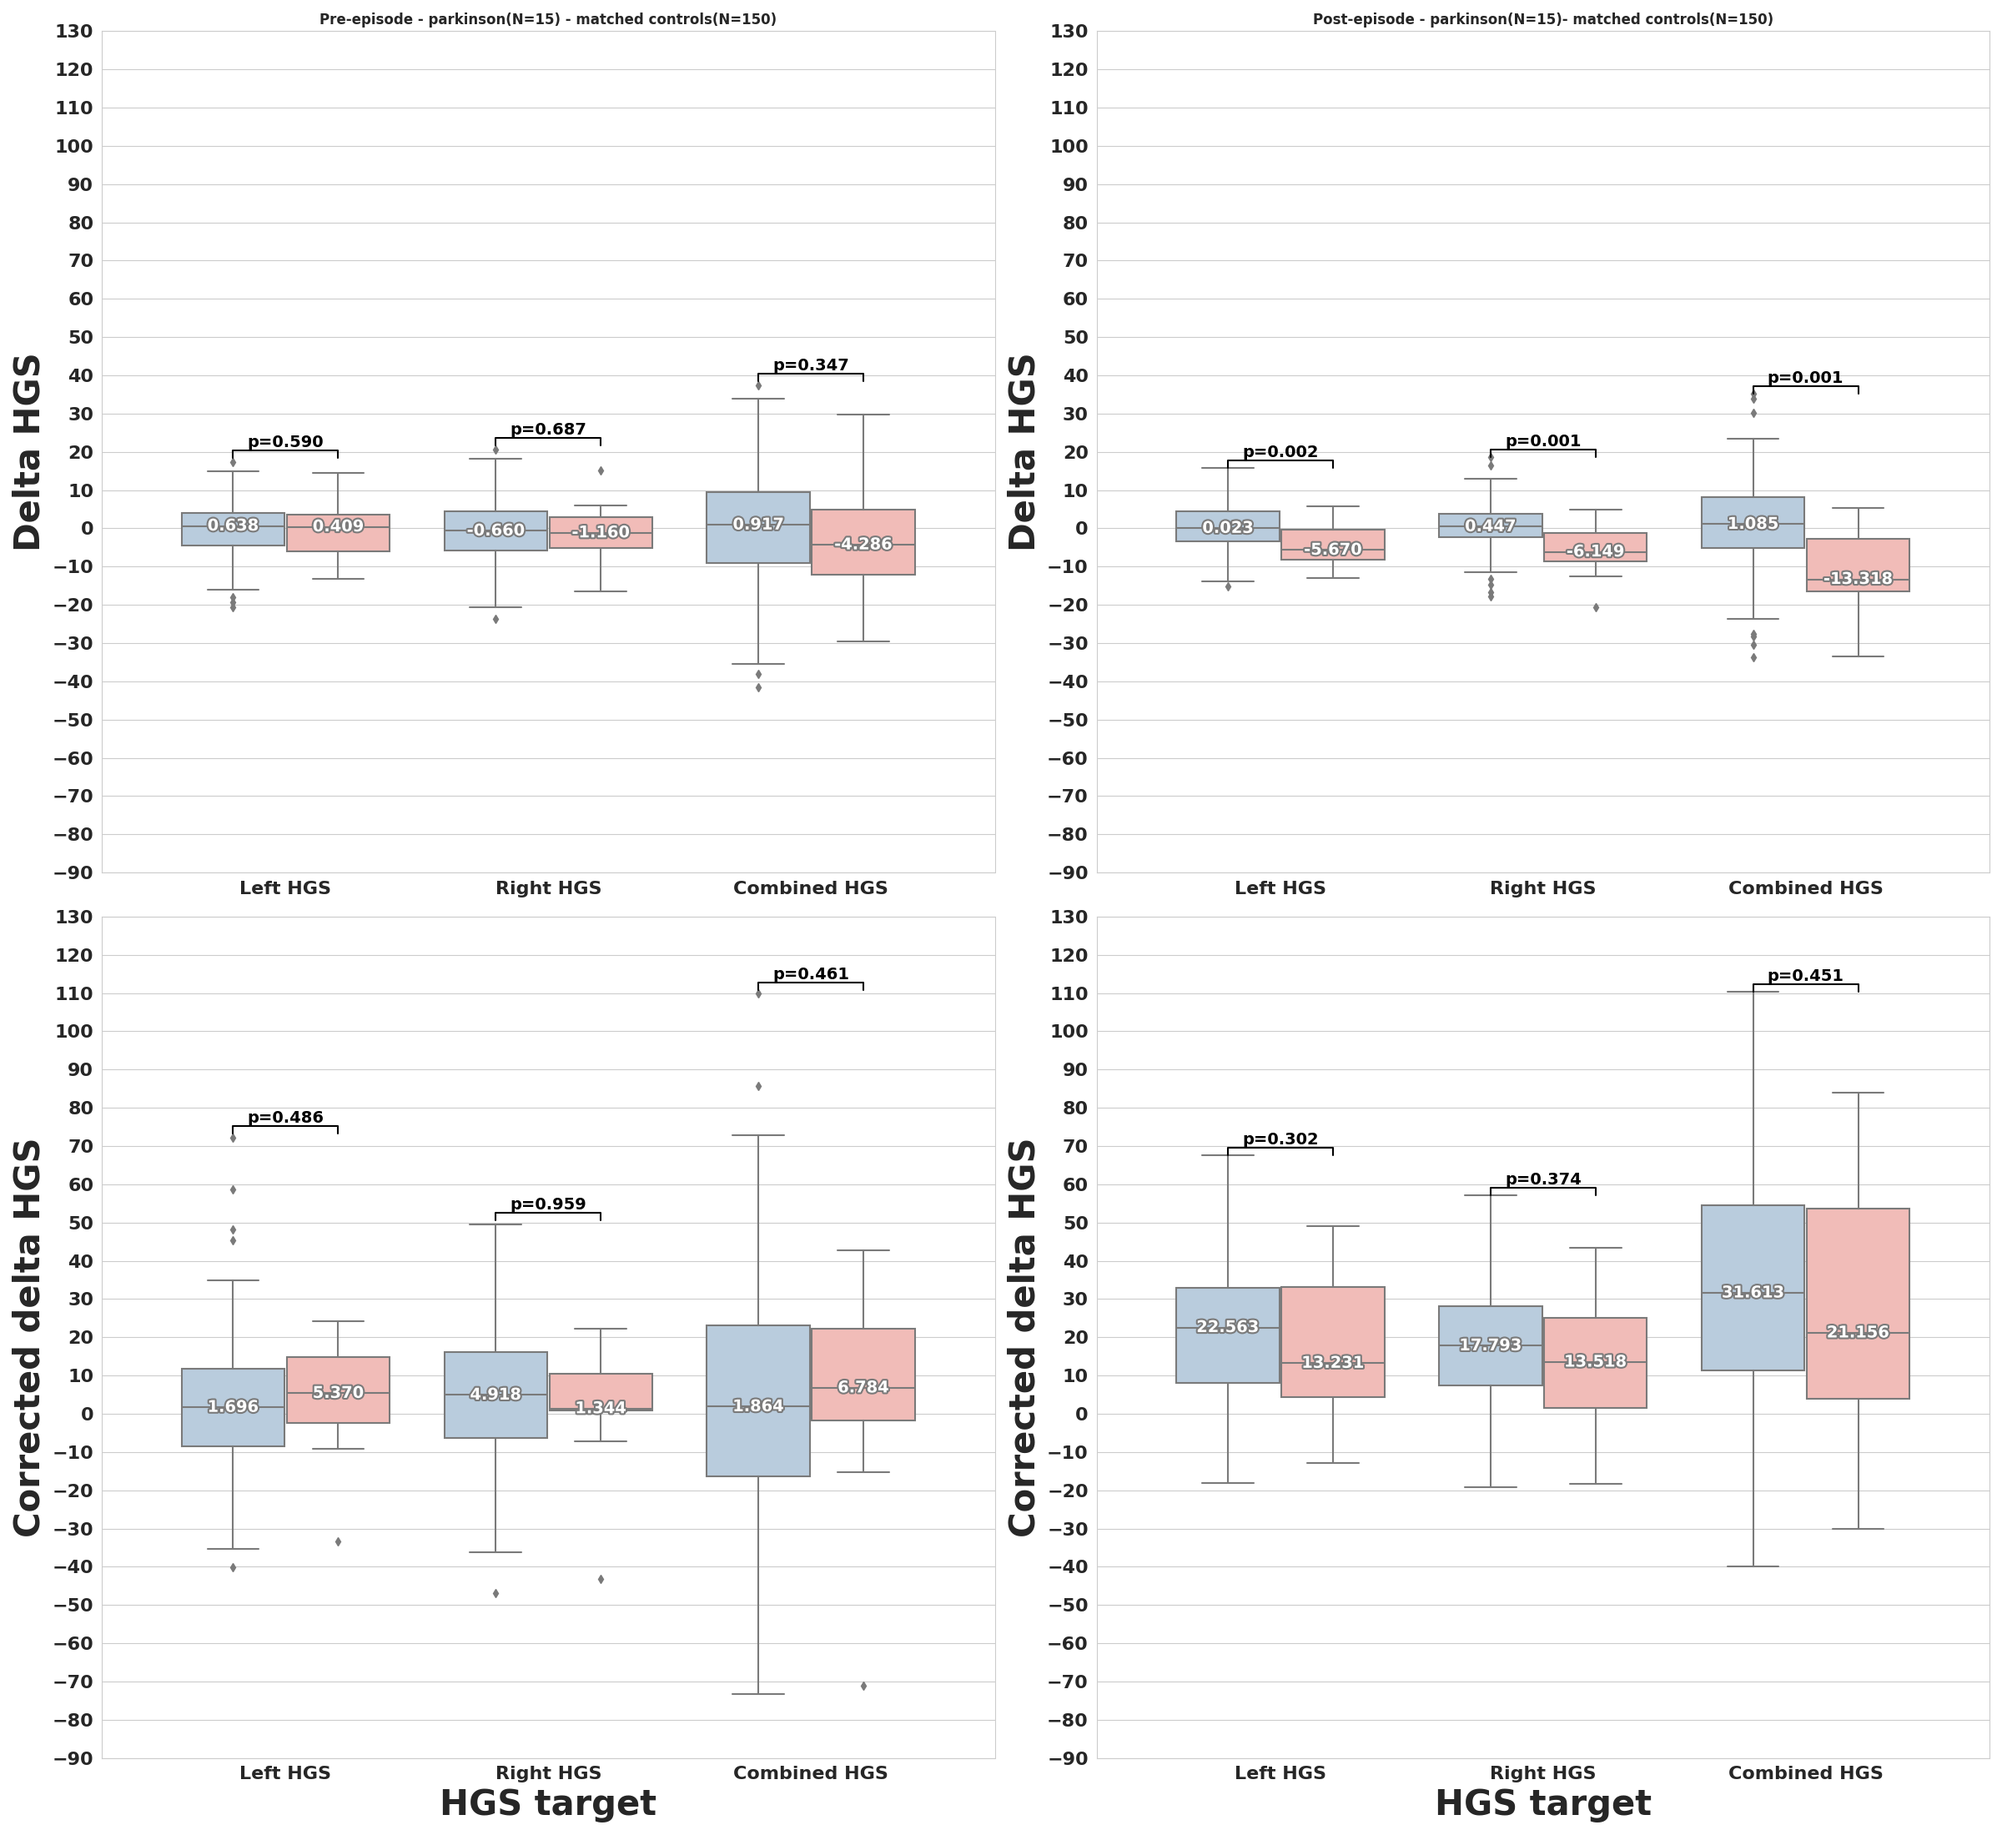
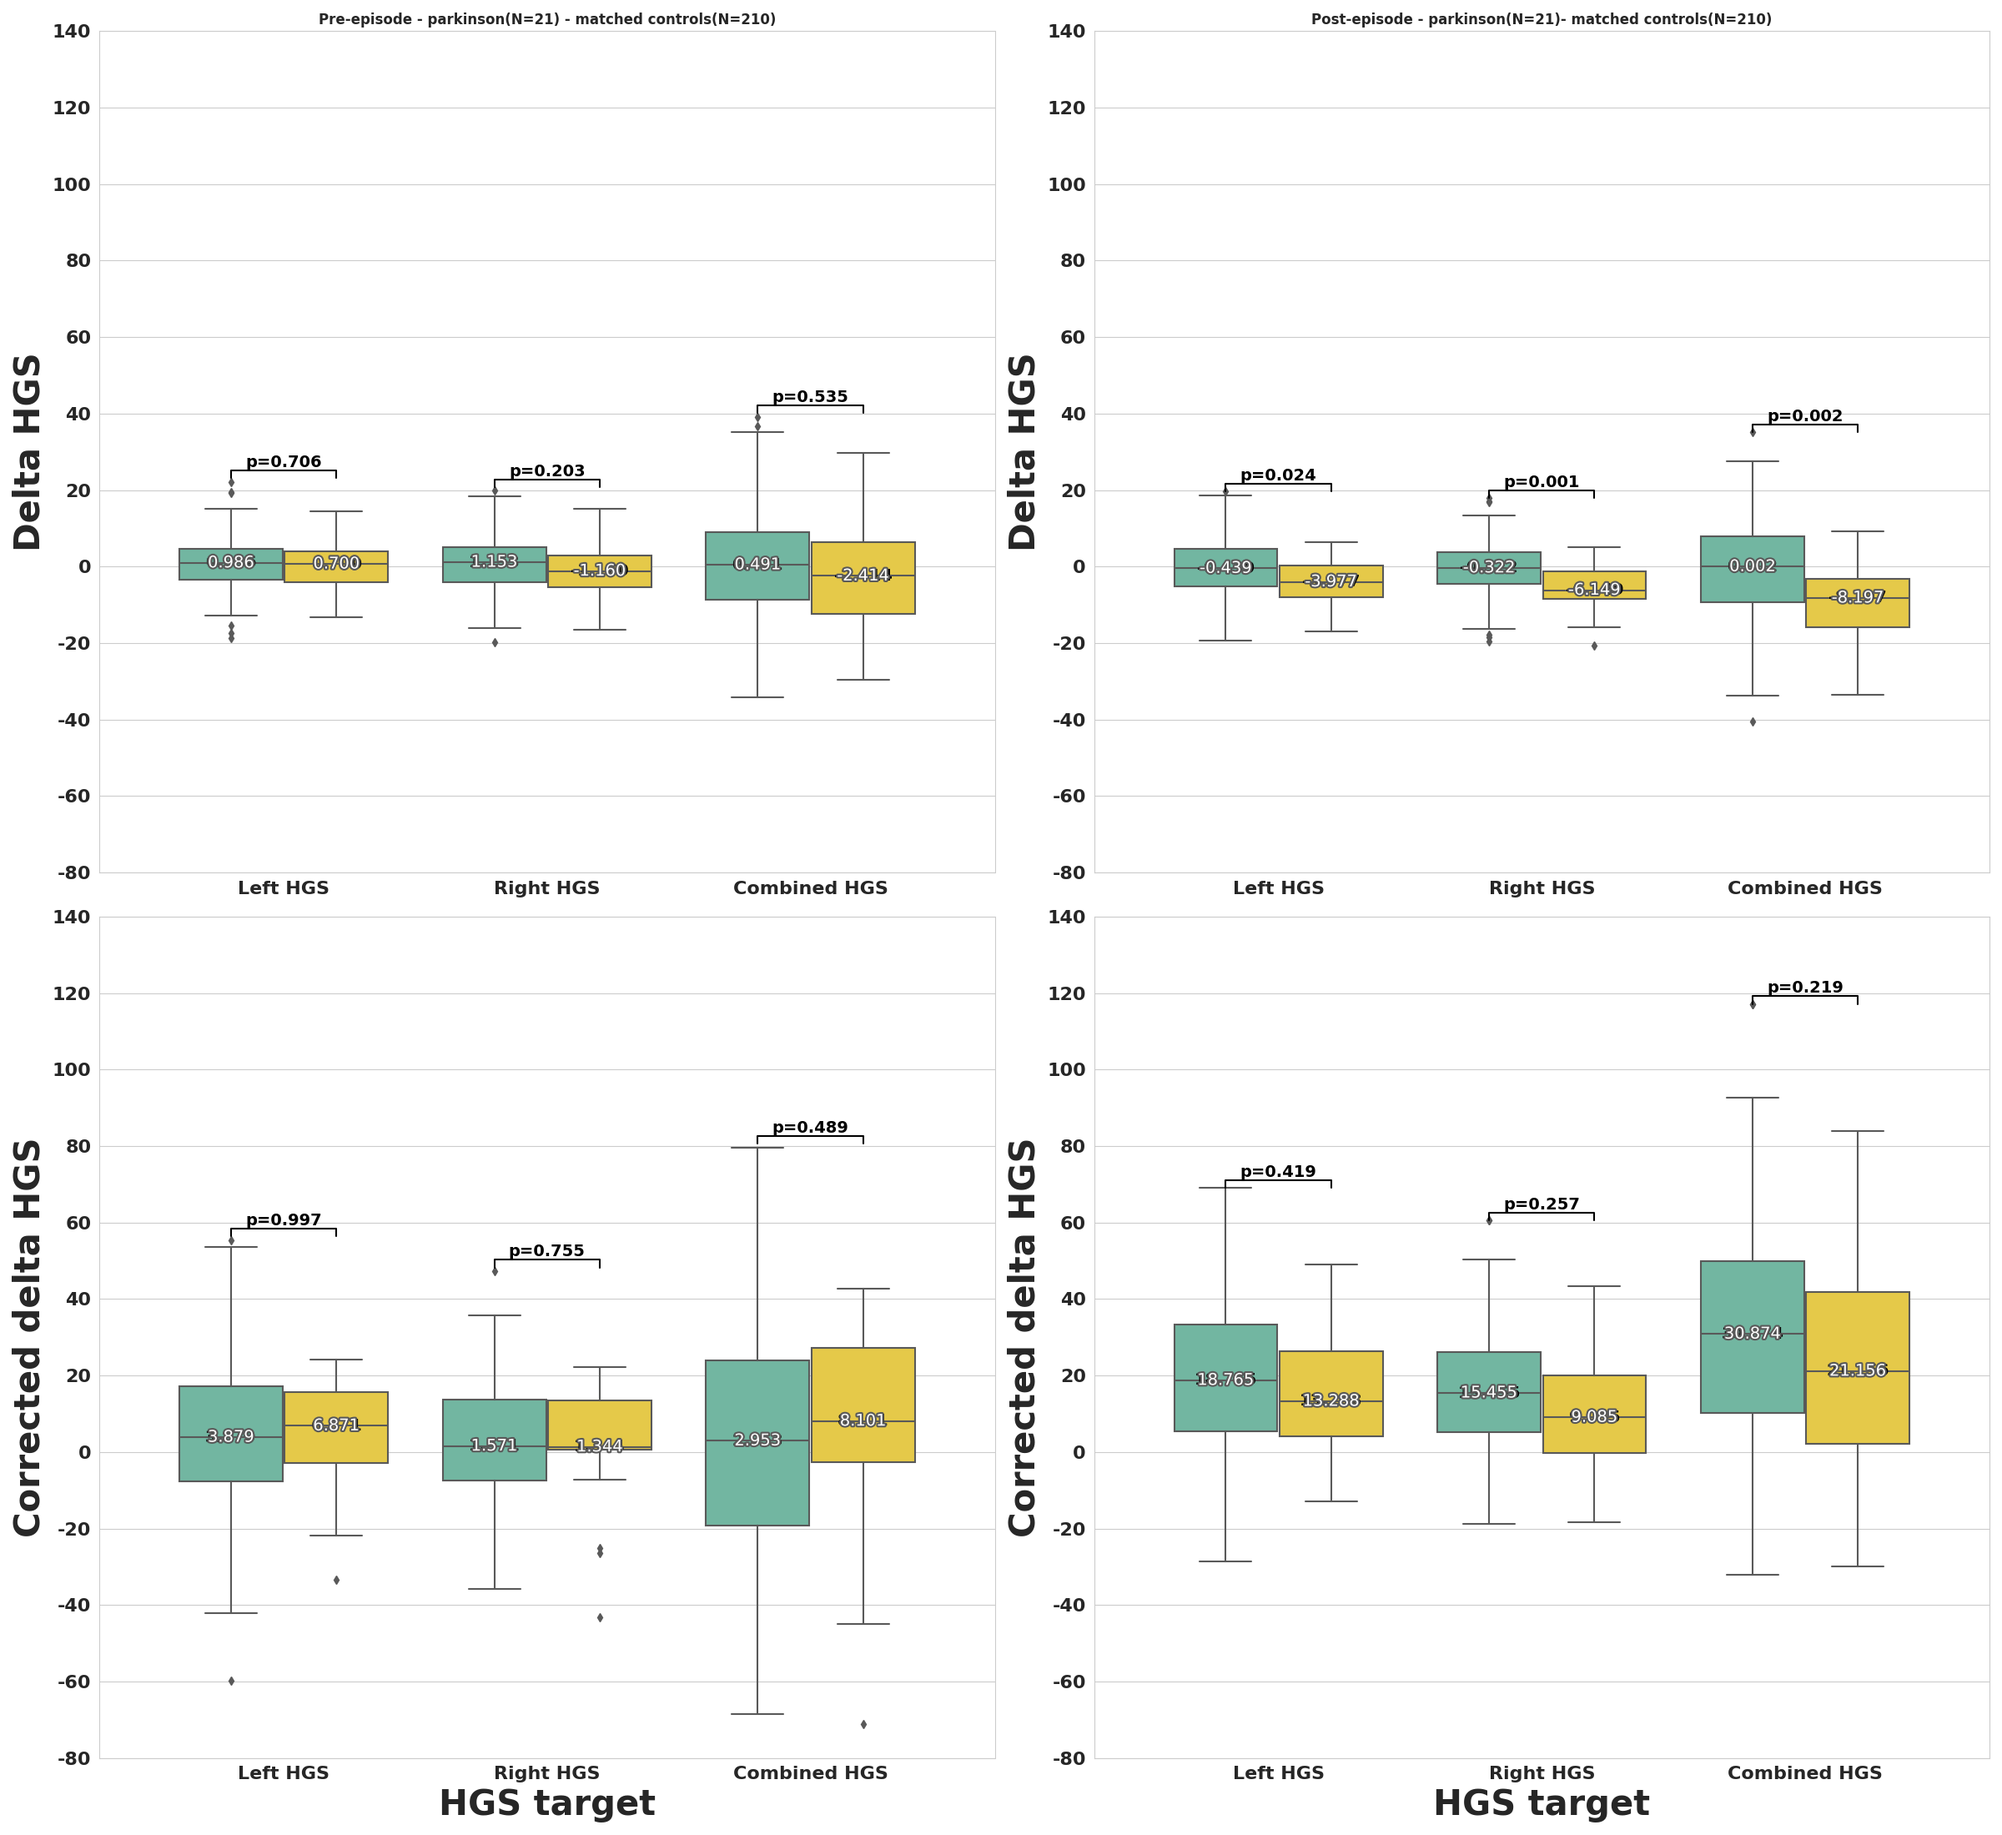
New files for plot corrected predictions for disorders

diff --git a/exec/8_test_trained_models_on_diseases/disorder/plot_comparing_hgs_prediction_targets.py b/exec/8_test_trained_models_on_diseases/disorder/plot_comparing_hgs_prediction_targets.py
@@ -38,6 +38,9 @@ if anova_target == "hgs_delta":
 elif anova_target == "hgs_predicted":
     plot_target = ["hgs_predicted", "hgs_corrected_predicted"]
 
+elif anova_target == "hgs":
+    plot_target = ["hgs"]
+
 ##############################################################################
 
 df = pd.DataFrame()
@@ -71,22 +74,21 @@ df_post_control= df_post[df_post['treatment']=="control"]
 df_ranksum = pd.DataFrame(index=["hgs_left", "hgs_right", "hgs_L+R"])
 df_yaxis_max = pd.DataFrame(index=["hgs_left", "hgs_right", "hgs_L+R"])
 
-if anova_target == "hgs_delta":
-    for target in ["hgs_left", "hgs_right", "hgs_L+R"]:
-        for i, y_hgs in enumerate(plot_target):
-            stat_pre, p_value_pre = ranksums(df_pre_control[df_pre_control["hgs_target"]==target][y_hgs], df_pre_disorder[df_pre_disorder["hgs_target"]==target][y_hgs])
-            stat_post, p_value_post = ranksums(df_post_control[df_post_control["hgs_target"]==target][y_hgs], df_post_disorder[df_post_disorder["hgs_target"]==target][y_hgs])
+for target in ["hgs_left", "hgs_right", "hgs_L+R"]:
+    for i, y_hgs in enumerate(plot_target):
+        stat_pre, p_value_pre = ranksums(df_pre_control[df_pre_control["hgs_target"]==target][y_hgs], df_pre_disorder[df_pre_disorder["hgs_target"]==target][y_hgs])
+        stat_post, p_value_post = ranksums(df_post_control[df_post_control["hgs_target"]==target][y_hgs], df_post_disorder[df_post_disorder["hgs_target"]==target][y_hgs])
 
-            df_ranksum.loc[target, f"pre_{y_hgs}_p_value"] = p_value_pre
-            df_ranksum.loc[target, f"pre_{y_hgs}_stat_value"] = stat_pre
-            df_ranksum.loc[target, f"post_{y_hgs}_p_value"] = p_value_post
-            df_ranksum.loc[target, f"post_{y_hgs}_stat_value"] = stat_post
-            
-            max_value_pre = max(df_pre_control[df_pre_control["hgs_target"] == target][y_hgs].max(),df_pre_disorder[df_pre_disorder["hgs_target"] == target][y_hgs].max())
-            max_value_post = max(df_post_control[df_post_control["hgs_target"] == target][y_hgs].max(),df_post_disorder[df_post_disorder["hgs_target"] == target][y_hgs].max())
+        df_ranksum.loc[target, f"pre_{y_hgs}_p_value"] = p_value_pre
+        df_ranksum.loc[target, f"pre_{y_hgs}_stat_value"] = stat_pre
+        df_ranksum.loc[target, f"post_{y_hgs}_p_value"] = p_value_post
+        df_ranksum.loc[target, f"post_{y_hgs}_stat_value"] = stat_post
+        
+        max_value_pre = max(df_pre_control[df_pre_control["hgs_target"] == target][y_hgs].max(),df_pre_disorder[df_pre_disorder["hgs_target"] == target][y_hgs].max())
+        max_value_post = max(df_post_control[df_post_control["hgs_target"] == target][y_hgs].max(),df_post_disorder[df_post_disorder["hgs_target"] == target][y_hgs].max())
 
-            df_yaxis_max.loc[target, f"pre_{y_hgs}_max_value"] = max_value_pre
-            df_yaxis_max.loc[target, f"post_{y_hgs}_max_value"] = max_value_post
+        df_yaxis_max.loc[target, f"pre_{y_hgs}_max_value"] = max_value_pre
+        df_yaxis_max.loc[target, f"post_{y_hgs}_max_value"] = max_value_post
 
 ###############################################################################
 def add_median_labels(ax, fmt='.3f'):
@@ -126,12 +128,22 @@ ymax =0
 # Set the style of seaborn
 sns.set_style("whitegrid")
 # Create the boxplot
-fig, axes = plt.subplots(2, 2, figsize=(24, 22))
+if anova_target == "hgs":
+    n_row = 1
+    n_col = 2
+else:
+    n_row = 2
+    n_col = 2 
 
-for i, y_hgs in enumerate(plot_target):
-    for j in range(2):
-        ax = axes[i][j]
-        
+fig, axes = plt.subplots(n_row, n_col, figsize=(24, 22))
+
+for i, y_hgs in enumerate(plot_target): 
+    for j in range(n_col):
+        if n_row == 1:
+            ax = axes[j]
+        else:
+            ax = axes[i][j]
+
         if j == 0:
             sns.boxplot(data=df_pre, x='hgs_target', y=f'{y_hgs}', hue='treatment', palette=custome_palette, ax=ax)
             sns.set_style("whitegrid")
@@ -154,7 +166,9 @@ for i, y_hgs in enumerate(plot_target):
                 ax.set_ylabel("Predicted HGS", fontsize=30, fontweight="bold")
             elif y_hgs == "hgs_corrected_predicted":
                 ax.set_ylabel("Corrected predicted HGS", fontsize=30, fontweight="bold")
-            
+            elif y_hgs == "hgs":
+                ax.set_ylabel("True HGS", fontsize=30, fontweight="bold")
+                
             xticks_positios_array = add_median_labels(ax)
             for x_box_pos in np.arange(0,6,2):
                 if x_box_pos == 0:
@@ -196,6 +210,8 @@ for i, y_hgs in enumerate(plot_target):
                 ax.set_ylabel("Predicted HGS", fontsize=30, fontweight="bold")
             elif y_hgs == "hgs_corrected_predicted":
                 ax.set_ylabel("Corrected predicted HGS", fontsize=30, fontweight="bold")
+            elif y_hgs == "hgs":
+                ax.set_ylabel("True HGS", fontsize=30, fontweight="bold")
 
             xticks_positios_array = add_median_labels(ax)
 
@@ -217,12 +233,17 @@ for i, y_hgs in enumerate(plot_target):
                 ymax = ymax_tmp
 
 if population == "depression":
-    ylim_range = range(math.floor(ymin/10)*10, math.ceil(ymax/10)*10+40, 20) 
-else:
-    ylim_range = range(math.floor(ymin/10)*10, math.ceil(ymax/10)*10+40, 20) 
-for i in range(2):
-    for j in range(2):
-        ax=axes[i][j]            
+    ylim_range = range(math.floor(ymin/10)*10, math.ceil(ymax/10)*10+60, 20) 
+if population == "parkinson":
+    ylim_range = range(math.floor(ymin/10)*10, math.ceil(ymax/10)*10+30, 20) 
+if population == "stroke":
+    ylim_range = range(math.floor(ymin/10)*10, math.ceil(ymax/10)*10+20, 20) 
+for i in range(n_row):
+    for j in range(n_col):
+        if n_row == 1:
+            ax = axes[j]
+        else:
+            ax = axes[i][j]
         ax.set_ylim(min(ylim_range), max(ylim_range))
         ax.set_yticks(range(min(ylim_range), max(ylim_range)+1, 20))
         ax.set_yticklabels(ax.get_yticks(), size=16, weight='bold')
@@ -232,7 +253,7 @@ plt.tight_layout()
 
 # Show the plot
 plt.show()
-plt.savefig(f"{population}_{anova_target}_corrected_predictions_matched_controls_1.png")
+plt.savefig(f"{population}_{anova_target}_corrected_predictions_matched_controls.png")
 plt.close()
 
 print("===== Done! =====")
